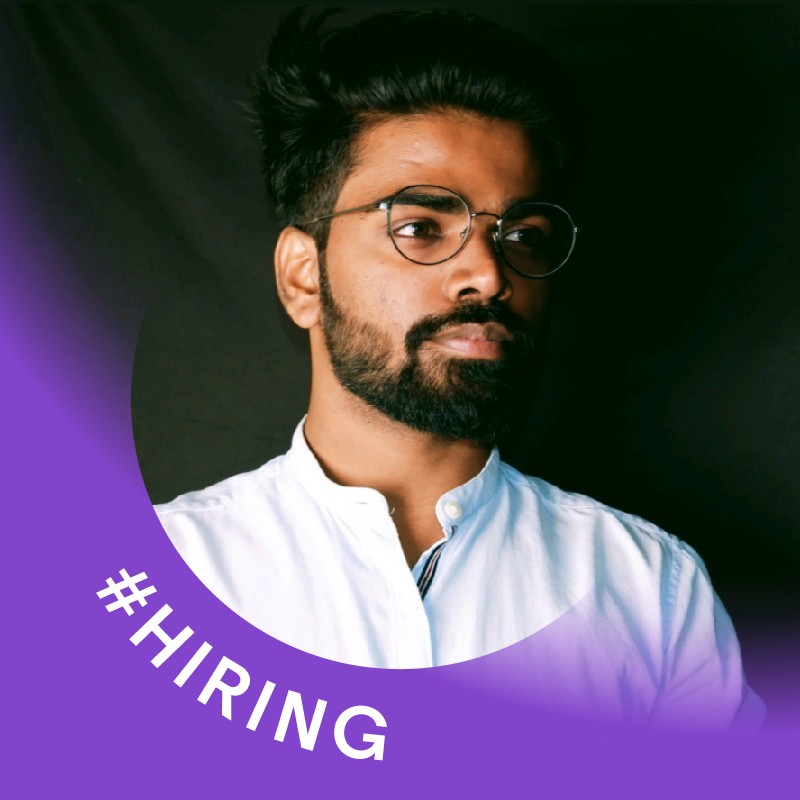
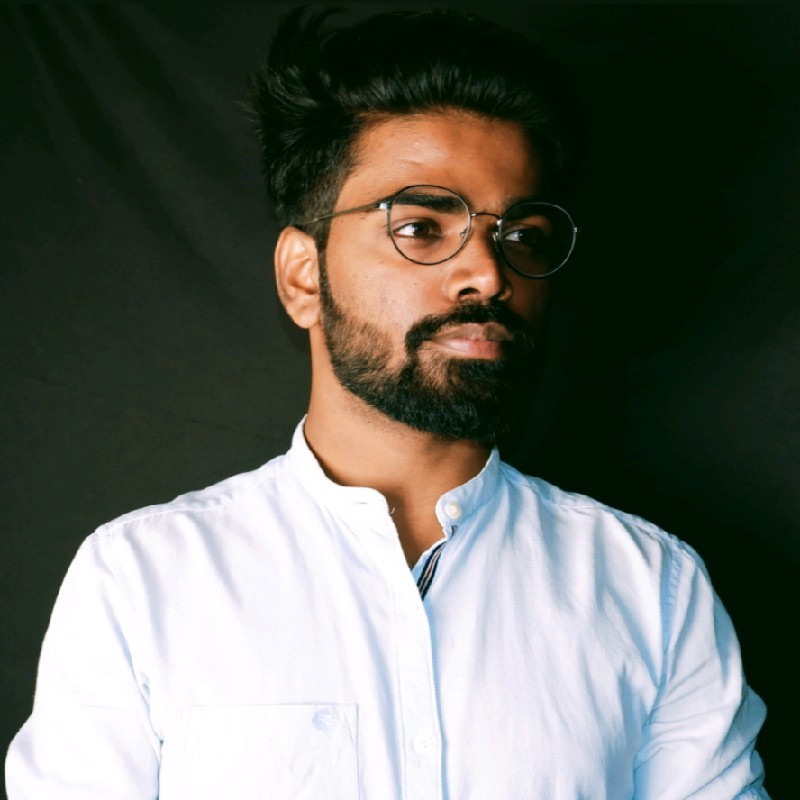
Add - testimonial profile pictures and LinkedIn links

Changed region(s): [[0.0, 0.125, 1.0, 1.0]]

diff --git a/app/testimonials.js b/app/testimonials.js
@@ -4,17 +4,23 @@ const testimonials = [
     {
         "name": "Ujwal Joshi",
         "title": "Founder at BagAChat.com",
-        "testimonial": "Darshan worked with us at BagAChat in 2023, while he was still in his third year of college. He is a quick learner! He worked on a large legacy React codebase for one of our premium clients and built Node.js integrations for one of our products. Even then, he understood that rewriting a big live codebase would risk breaking things the client depended on, so he learned how it worked and made careful, targeted changes. He was easy to work with, and it’s been good to see him grow since. He also is proactive to give suggestions and discuss ideas during the work."
+        "testimonial": "Darshan worked with us at BagAChat in 2023, while he was still in his third year of college. He is a quick learner! He worked on a large legacy React codebase for one of our premium clients and built Node.js integrations for one of our products. Even then, he understood that rewriting a big live codebase would risk breaking things the client depended on, so he learned how it worked and made careful, targeted changes. He was easy to work with, and it’s been good to see him grow since. He also is proactive to give suggestions and discuss ideas during the work.",
+        "linkedin": "https://www.linkedin.com/in/ujwal-joshi-6a487519/",
+        "image": "/testimonials/ujwal.jpeg"
     },
     {
         "name": "Aditya Deole",
         "title": "Mechanical Engineer · Oil & Gas, FEA, Design",
-        "testimonial": "I had the pleasure of working with Darshan during the development of BendTester, a new machine for which he was responsible for both frontend and backend development. Darshan is technically skilled, knowledgeable, and highly dependable. What impressed me most was his commitment to quality and delivering work on time. He is punctual, takes ownership of his responsibilities, and consistently meets agreed timelines. Despite being early in his career, Darshan demonstrates maturity in his communication, with a clear and practical approach to problem-solving. He is also flexible, adaptable, and always willing to accommodate changing project requirements. Darshan was an absolute pleasure to work with, and I would highly recommend him to anyone looking for a capable and committed developer."
+        "testimonial": "I had the pleasure of working with Darshan during the development of BendTester, a new machine for which he was responsible for both frontend and backend development. Darshan is technically skilled, knowledgeable, and highly dependable. What impressed me most was his commitment to quality and delivering work on time. He is punctual, takes ownership of his responsibilities, and consistently meets agreed timelines. Despite being early in his career, Darshan demonstrates maturity in his communication, with a clear and practical approach to problem-solving. He is also flexible, adaptable, and always willing to accommodate changing project requirements. Darshan was an absolute pleasure to work with, and I would highly recommend him to anyone looking for a capable and committed developer.",
+        "linkedin": "https://www.linkedin.com/in/adityamech/",
+        "image": "/testimonials/aditya.png"
     },
     {
         "name": "Deepak Kumar Subramaniam",
         "title": "Group VP Operations & Manufacturing · Ex-Indian Navy Officer · IIM-Calcutta",
-        "testimonial": "I must place on record that when I was at my most stretched thin phase, Darshan was the only person who wanted to see the Smart Tutor product I developed and understood the full functioning. Then, despite me giving a very small spec, he expanded his scope to help the website for MirSolutions.in and spotted the pitfalls that would have occurred when we went operational. That is the hallmark of a true professional and beautiful human being who, despite not being told, went out of his way and got it done to standards."
+        "testimonial": "I must place on record that when I was at my most stretched thin phase, Darshan was the only person who wanted to see the Smart Tutor product I developed and understood the full functioning. Then, despite me giving a very small spec, he expanded his scope to help the website for MirSolutions.in and spotted the pitfalls that would have occurred when we went operational. That is the hallmark of a true professional and beautiful human being who, despite not being told, went out of his way and got it done to standards.",
+        "linkedin": "https://www.linkedin.com/in/deepak-kumar-subramaniam/",
+        "image": "/testimonials/deepak.jpeg"
     },
     {
         "name": "Pankaj Dhamane",
@@ -33,19 +39,23 @@ const testimonials = [
     {
         "name": "Esha Mane",
         "title": "Mid-QA Engineer",
-        "testimonial": "I tested Darshan’s Salesforce work when we were on the same team at Koncero back in 2021. Whenever I flagged an issue, he understood it quickly and turned the fix around promptly. Testing his work was always smooth, thanks to his responsiveness and collaborative approach. He was quick to understand the root cause of issues, communicate clearly, and make the necessary changes. I appreciated his willingness to address feedback and work closely with QA to ensure things were functioning as expected. His technical understanding and ownership made the overall testing process efficient and straightforward. It was a positive experience working with him, and I’d be happy to recommend him as a dependable and collaborative professional to work with."
+        "testimonial": "I tested Darshan’s Salesforce work when we were on the same team at Koncero back in 2021. Whenever I flagged an issue, he understood it quickly and turned the fix around promptly. Testing his work was always smooth, thanks to his responsiveness and collaborative approach. He was quick to understand the root cause of issues, communicate clearly, and make the necessary changes. I appreciated his willingness to address feedback and work closely with QA to ensure things were functioning as expected. His technical understanding and ownership made the overall testing process efficient and straightforward. It was a positive experience working with him, and I’d be happy to recommend him as a dependable and collaborative professional to work with.",
+        "linkedin": "https://www.linkedin.com/in/esha-mane-86a0a018/",
+        "image": "/testimonials/esha.png"
     },
     {
         "name": "Vibhanshu Rathod",
         "title": "Client",
         "testimonial": "I’ve known Darshan for 3 years and highly recommend him as a Fullstack Developer. He is skilled, reliable, and consistently delivers top-notch work. His expertise would be a great asset to any team.",
-        "linkedin": "https://www.linkedin.com/in/vibhanshurathod/",
-        "image": "/testimonials/vibhanshu.jpeg"
+        "linkedin": "https://www.linkedin.com/in/heyvibhanshu/",
+        "image": "/testimonials/vibhanshu.png"
     },
     {
         "name": "Poonam Patil",
         "title": "Software Developer",
-        "testimonial": "I had the pleasure of working with him and was impressed by his Salesforce development skills and technical knowledge. He has a good understanding of Salesforce customization, problem-solving, and developing solutions to meet business requirements. He is a dedicated and reliable professional who works well with the team. I would highly recommend him for Salesforce development roles."
+        "testimonial": "I had the pleasure of working with him and was impressed by his Salesforce development skills and technical knowledge. He has a good understanding of Salesforce customization, problem-solving, and developing solutions to meet business requirements. He is a dedicated and reliable professional who works well with the team. I would highly recommend him for Salesforce development roles.",
+        "linkedin": "https://www.linkedin.com/in/poonam-patil-942673a6/",
+        "image": "/testimonials/poonam.jpeg"
     },
     {
         "name": "Jesus Mejia",
@@ -57,7 +67,9 @@ const testimonials = [
     {
         "name": "Harshkumar Pasi",
         "title": "Building · Schbang AI Labs",
-        "testimonial": "I have known Darshan for 6 years. Since school, he has been very disciplined and has always been interested in what inspires him. His commerce-to-computer science transition shows confidence and willingness to take risks. Over the past year, his love for designing software that can contribute to society has made his work unique and creative. He has contributed to many open-source projects and has his own great portfolio of projects covering games, applications, and more. Therefore, when working with front-end or back-end applications, I prefer Darshan. Undoubtedly, Darshan will be a great asset for any organization with which he works. In the future, we hope to work together on very good software."
+        "testimonial": "I have known Darshan for 6 years. Since school, he has been very disciplined and has always been interested in what inspires him. His commerce-to-computer science transition shows confidence and willingness to take risks. Over the past year, his love for designing software that can contribute to society has made his work unique and creative. He has contributed to many open-source projects and has his own great portfolio of projects covering games, applications, and more. Therefore, when working with front-end or back-end applications, I prefer Darshan. Undoubtedly, Darshan will be a great asset for any organization with which he works. In the future, we hope to work together on very good software.",
+        "linkedin": "https://www.linkedin.com/in/hkp19/",
+        "image": "/testimonials/harsh.png"
     },
     {
         "name": "LooYee NG",
